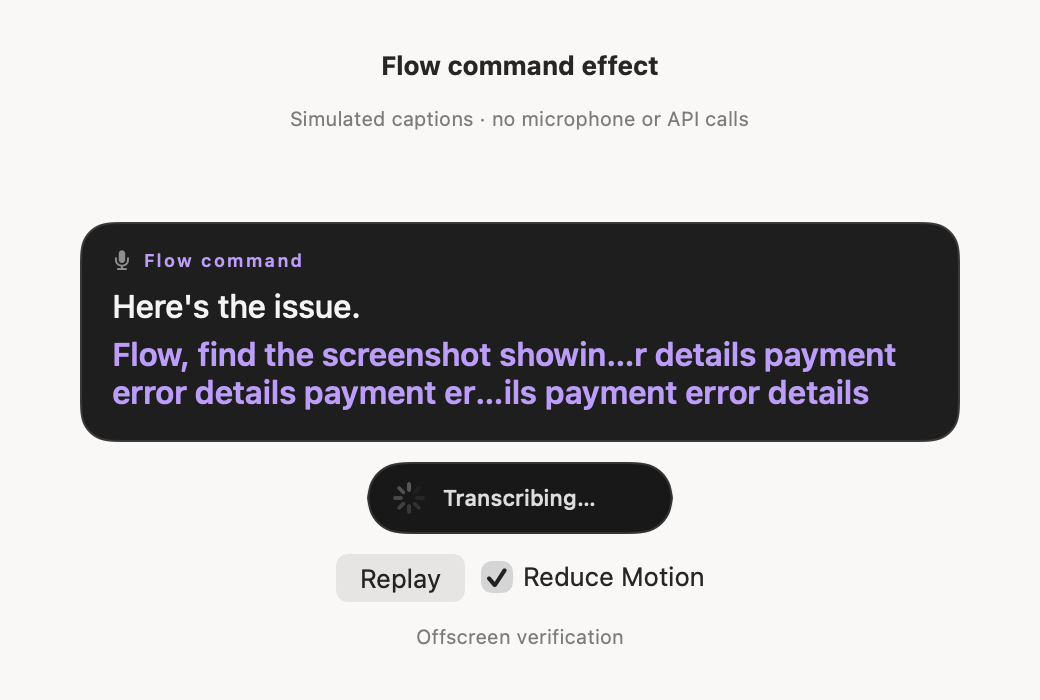
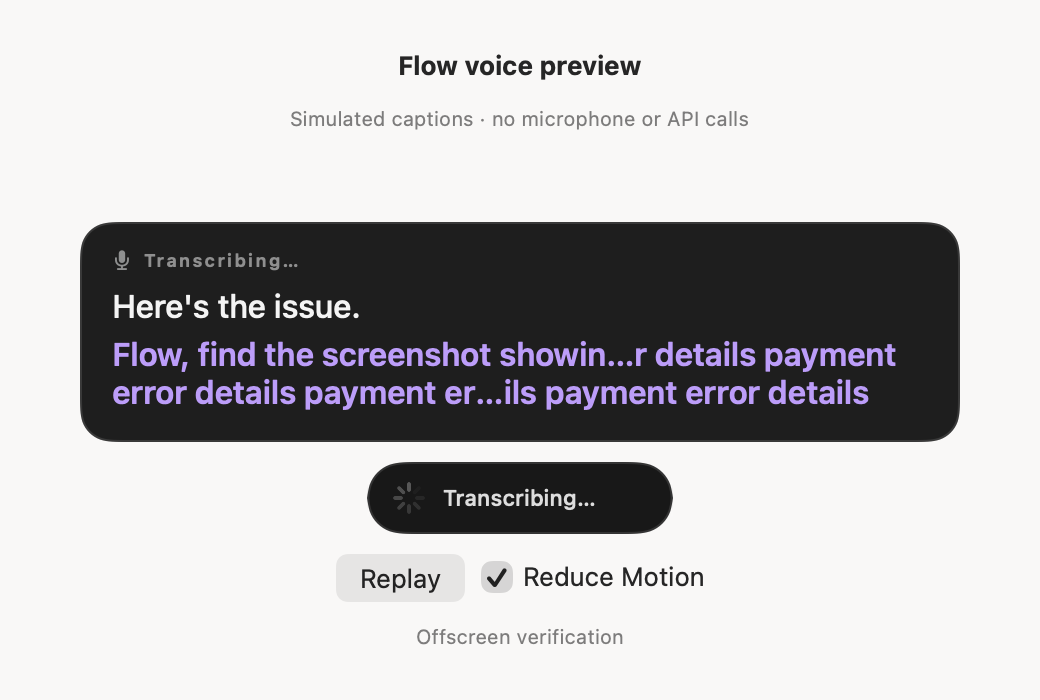
Remove generic command label and document inference latency options

Changed region(s): [[0.3692, 0.06, 0.6462, 0.12], [0.1231, 0.36, 0.3077, 0.39]]

diff --git a/scripts/preview-command-ripple.swift b/scripts/preview-command-ripple.swift
@@ -180,7 +180,7 @@ struct RipplePreviewView: View {
     @ObservedObject var model: RipplePreview
     var body: some View {
         VStack(spacing: 10) {
-            Text("Flow command effect").font(.headline)
+            Text("Flow voice preview").font(.headline)
             Text("Simulated captions · no microphone or API calls").font(.caption).foregroundStyle(.secondary)
             RecordingIndicatorView(attachmentSession: model.attachments).environmentObject(model.state)
                 .environment(\.flowReduceMotion, model.reduceMotion)
@@ -207,7 +207,7 @@ struct RipplePreviewRunner {
         let host = NSHostingView(rootView: RipplePreviewView(model: model))
         host.frame = NSRect(x: 0, y: 0, width: 552, height: 350)
         let window = NSWindow(contentRect: host.frame, styleMask: [.titled, .closable], backing: .buffered, defer: false)
-        window.title = "Flow · Command effect preview"; window.contentView = host; window.isReleasedWhenClosed = false
+        window.title = "Flow · Voice preview"; window.contentView = host; window.isReleasedWhenClosed = false
         window.level = .floating; window.center(); window.orderFrontRegardless(); Self.window = window
         model.capture = { [weak host] in
             guard let host, let bitmap = host.bitmapImageRepForCachingDisplay(in: host.bounds) else { return nil }

diff --git a/Sources/FlowApp/FlowCommandCaptionView.swift b/Sources/FlowApp/FlowCommandCaptionView.swift
@@ -14,8 +14,8 @@ struct FlowCommandCaptionView: View {
     @State private var played = false
 
     private var parts: FlowCommandCaption? { FlowCommandCaption.detect(in: transcript, isRecording: isRecording) }
-    private var commandStatus: String {
-        guard let plan = attachments.plan else { return "Flow command" }
+    private var commandStatus: String? {
+        guard let plan = attachments.plan else { return nil }
         if plan.clarification != nil { return "Needs detail" }
         if attachments.attachmentConfirmed { return "Added to draft" }
         if attachments.busy { return "Adding attachment…" }
@@ -26,7 +26,7 @@ struct FlowCommandCaptionView: View {
             return "Finding file…"
         }
         if !attachments.candidates.isEmpty { return "Attachment found" }
-        return "Flow command"
+        return nil
     }
 
     var body: some View {
@@ -35,7 +35,7 @@ struct FlowCommandCaptionView: View {
                 Image(systemName: "mic.fill")
                 if isRecording {
                     ListeningStatusLabel()
-                } else if parts != nil {
+                } else if parts != nil, let commandStatus {
                     Text(commandStatus)
                         .foregroundStyle(FlowCommandBadge.ink)
                         .accessibilityIdentifier("flow-command-status")

diff --git a/Sources/FlowApp/LiquidCommandText.swift b/Sources/FlowApp/LiquidCommandText.swift
@@ -96,14 +96,14 @@ struct LiquidCommandText: View {
                 raster = image; renderedKey = currentKey
             }
             .accessibilityElement(children: .ignore)
-            .accessibilityLabel("Flow command: \(command)")
+            .accessibilityLabel("Attachment request: \(command)")
             .accessibilityIdentifier("flow-command-text")
     }
 }
 
 struct FlowCommandBadge: View {
     static let ink = Color(red: 0.76, green: 0.61, blue: 1)
-    var title = "Flow command"
+    var title = "Command"
     var onDarkSurface = false
     @Environment(\.colorScheme) private var colorScheme
     private var ink: Color { onDarkSurface || colorScheme == .dark ? Self.ink : FW.accentMuted }

diff --git a/docs/inference-latency.md b/docs/inference-latency.md
@@ -1,0 +1,60 @@
+# Inference latency — October 18, 2026
+
+This is a source-checked proposal, not a deployed backend change or a new
+performance measurement. The latest UI preview made no ASR/LLM calls.
+
+## What Jason's sync contributed
+
+The 36-commit merge is recorded in [upstream-sync.md](upstream-sync.md).
+Relevant upstream changes include waveform rendering (`08f8c3b`), helper restart
+and error handling (`e8a6bb1`), hotkey activation modes (`3cd8918`), correction
+alignment/punctuation and UPSERT fixes (`cf2f61c`, `5574685`), and custom
+OpenAI-compatible API base URLs (`c4f4f0b`). These improve reliability and give
+us an integration route to another inference host; they do not establish a
+measured latency improvement for this fork's streaming demo.
+
+Jason's Rust worker supports Cloudflare Whisper by default or a Baseten predict
+endpoint when TRANSCRIPTION_PROVIDER=base10, followed by OpenRouter formatting.
+Our Auto streaming provider instead calls flow-worker-langgraph at the retained
+base10-proxy URL. Its checked-in configuration uses Cloudflare Workers AI:
+whisper-large-v3-turbo, then llama-3.3-70b-instruct-fp8-fast unless CHAT_MODEL is
+overridden. The service name alone does not identify the inference provider.
+Deployed environment overrides have not been inspected for this investigation.
+
+## Changes to measure first
+
+1. Measure Stop → final ASR → first model delta → first native write separately
+   from the intentionally paced display duration. Compare median and p95 using
+   the same utterances, recipient context and correctness checks.
+2. Transcribe while the user speaks. Today the final cloud request still runs
+   batch Whisper after Stop, before starting the rewrite. Cloudflare supports
+   [Nova-3 and Flux over WebSockets](https://developers.cloudflare.com/ai-gateway/usage/websockets-api/realtime-api/).
+   Evaluate that path, or reuse a validated final on-device transcript with a
+   cloud fallback. Keep partial speech out of the recipient's draft.
+3. Benchmark a smaller formatting model with only relevant recipient examples.
+   Check personalization, command separation and attachment metadata before
+   changing the default. Model size alone cannot guarantee better latency.
+4. Keep the smooth reveal independent of inference. Our 40 ms display pacing
+   plus punctuation pauses is deliberate; faster inference should reduce the
+   wait before the first character without forcing abrupt native insertions.
+
+## Using the RTX 4080
+
+Keep the Swift app on the Mac and run an inference service on the Windows/Linux
+PC containing the GPU. The Mac streams requests over the network. A practical
+ASR candidate is [faster-whisper](https://github.com/SYSTRAN/faster-whisper),
+which supports CUDA and quantized GPU inference; its published benchmarks even
+use an 8 GB RTX 3070 Ti. Those long-audio throughput results are not a measurement
+of our short-utterance latency on the 4080.
+
+Pair it with a small quantized rewriting model, budget VRAM for both resident
+models and context, and benchmark against cloud inference. The current 70B FP8
+model cannot fit on a single 4080. The existing custom API base URL setting is
+useful groundwork, but Auto's streamed events, personalization and attachment
+protocol still need a compatible adapter. There is no GPU service configured
+or connected by this UI task.
+
+Baseten also offers [WebSocket model serving](https://www.baseten.co/resources/changelog/websocket-support-for-real-time-model-streaming/).
+That is another candidate to benchmark; the upstream batch predict call does
+not automatically provide real-time ASR. No sub-10 ms end-to-end claim has been
+verified for either architecture.

diff --git a/docs/command-ripple.md b/docs/command-ripple.md
@@ -2,7 +2,9 @@
 
 Explicit “Flow, attach/find/search…” instructions appear on a separate purple,
 semibold line in the existing live-caption card. Recipient text remains white.
-A plain purple status label identifies the command without a capsule or pill.
+A plain purple label shows attachment progress without a capsule or pill. There
+is no generic “Flow command” label; the pending state says Transcribing… and a
+successful search retains Attachment found. The approved animation is unchanged.
 Ordinary mentions, quoted/reported instructions, negated cues and bare incomplete
 forms such as “Flow, attach” remain normal caption text. Saying “Flow” alone is
 not a command. The reserved pattern is “Flow, attach/find/search…” followed by an
@@ -32,7 +34,8 @@ command letters distort. Recipient text is outside that layer. Canvas's animatio
 timeline pauses after the pass. The final words stay purple. Long commands wrap
 to two lines and preserve the beginning/end when truncated.
 
-The plain purple label follows actual attachment state: Finding screenshot/image/file… while
+The plain purple label follows actual attachment state: Attachment found after
+matches arrive, Finding screenshot/image/file… while
 searching, Adding attachment… during insertion, Added to draft after confirmation,
 and Needs detail for a clarification. The attachment picker repeats the Command
 badge. The full Messages runner passes its own attachment session into the HUD,
@@ -73,7 +76,7 @@ is a capture target, not a measured production frame-rate guarantee.
 
 35 Swift tests passed, including recording-phase gating, incomplete commands,
 quotation, negation, Unicode and full-context guards. Thirteen native preview
-checks passed after the stable-bar/listening-dot adjustment. The exported stills
+checks passed after removing the generic command label. The exported stills
 were visually reviewed: command motion/glow, unchanged recipient text, no
 microphone waveform during processing, readable long commands and static reduced
 motion. A pixel comparison between active/settled fixtures also found no changes
